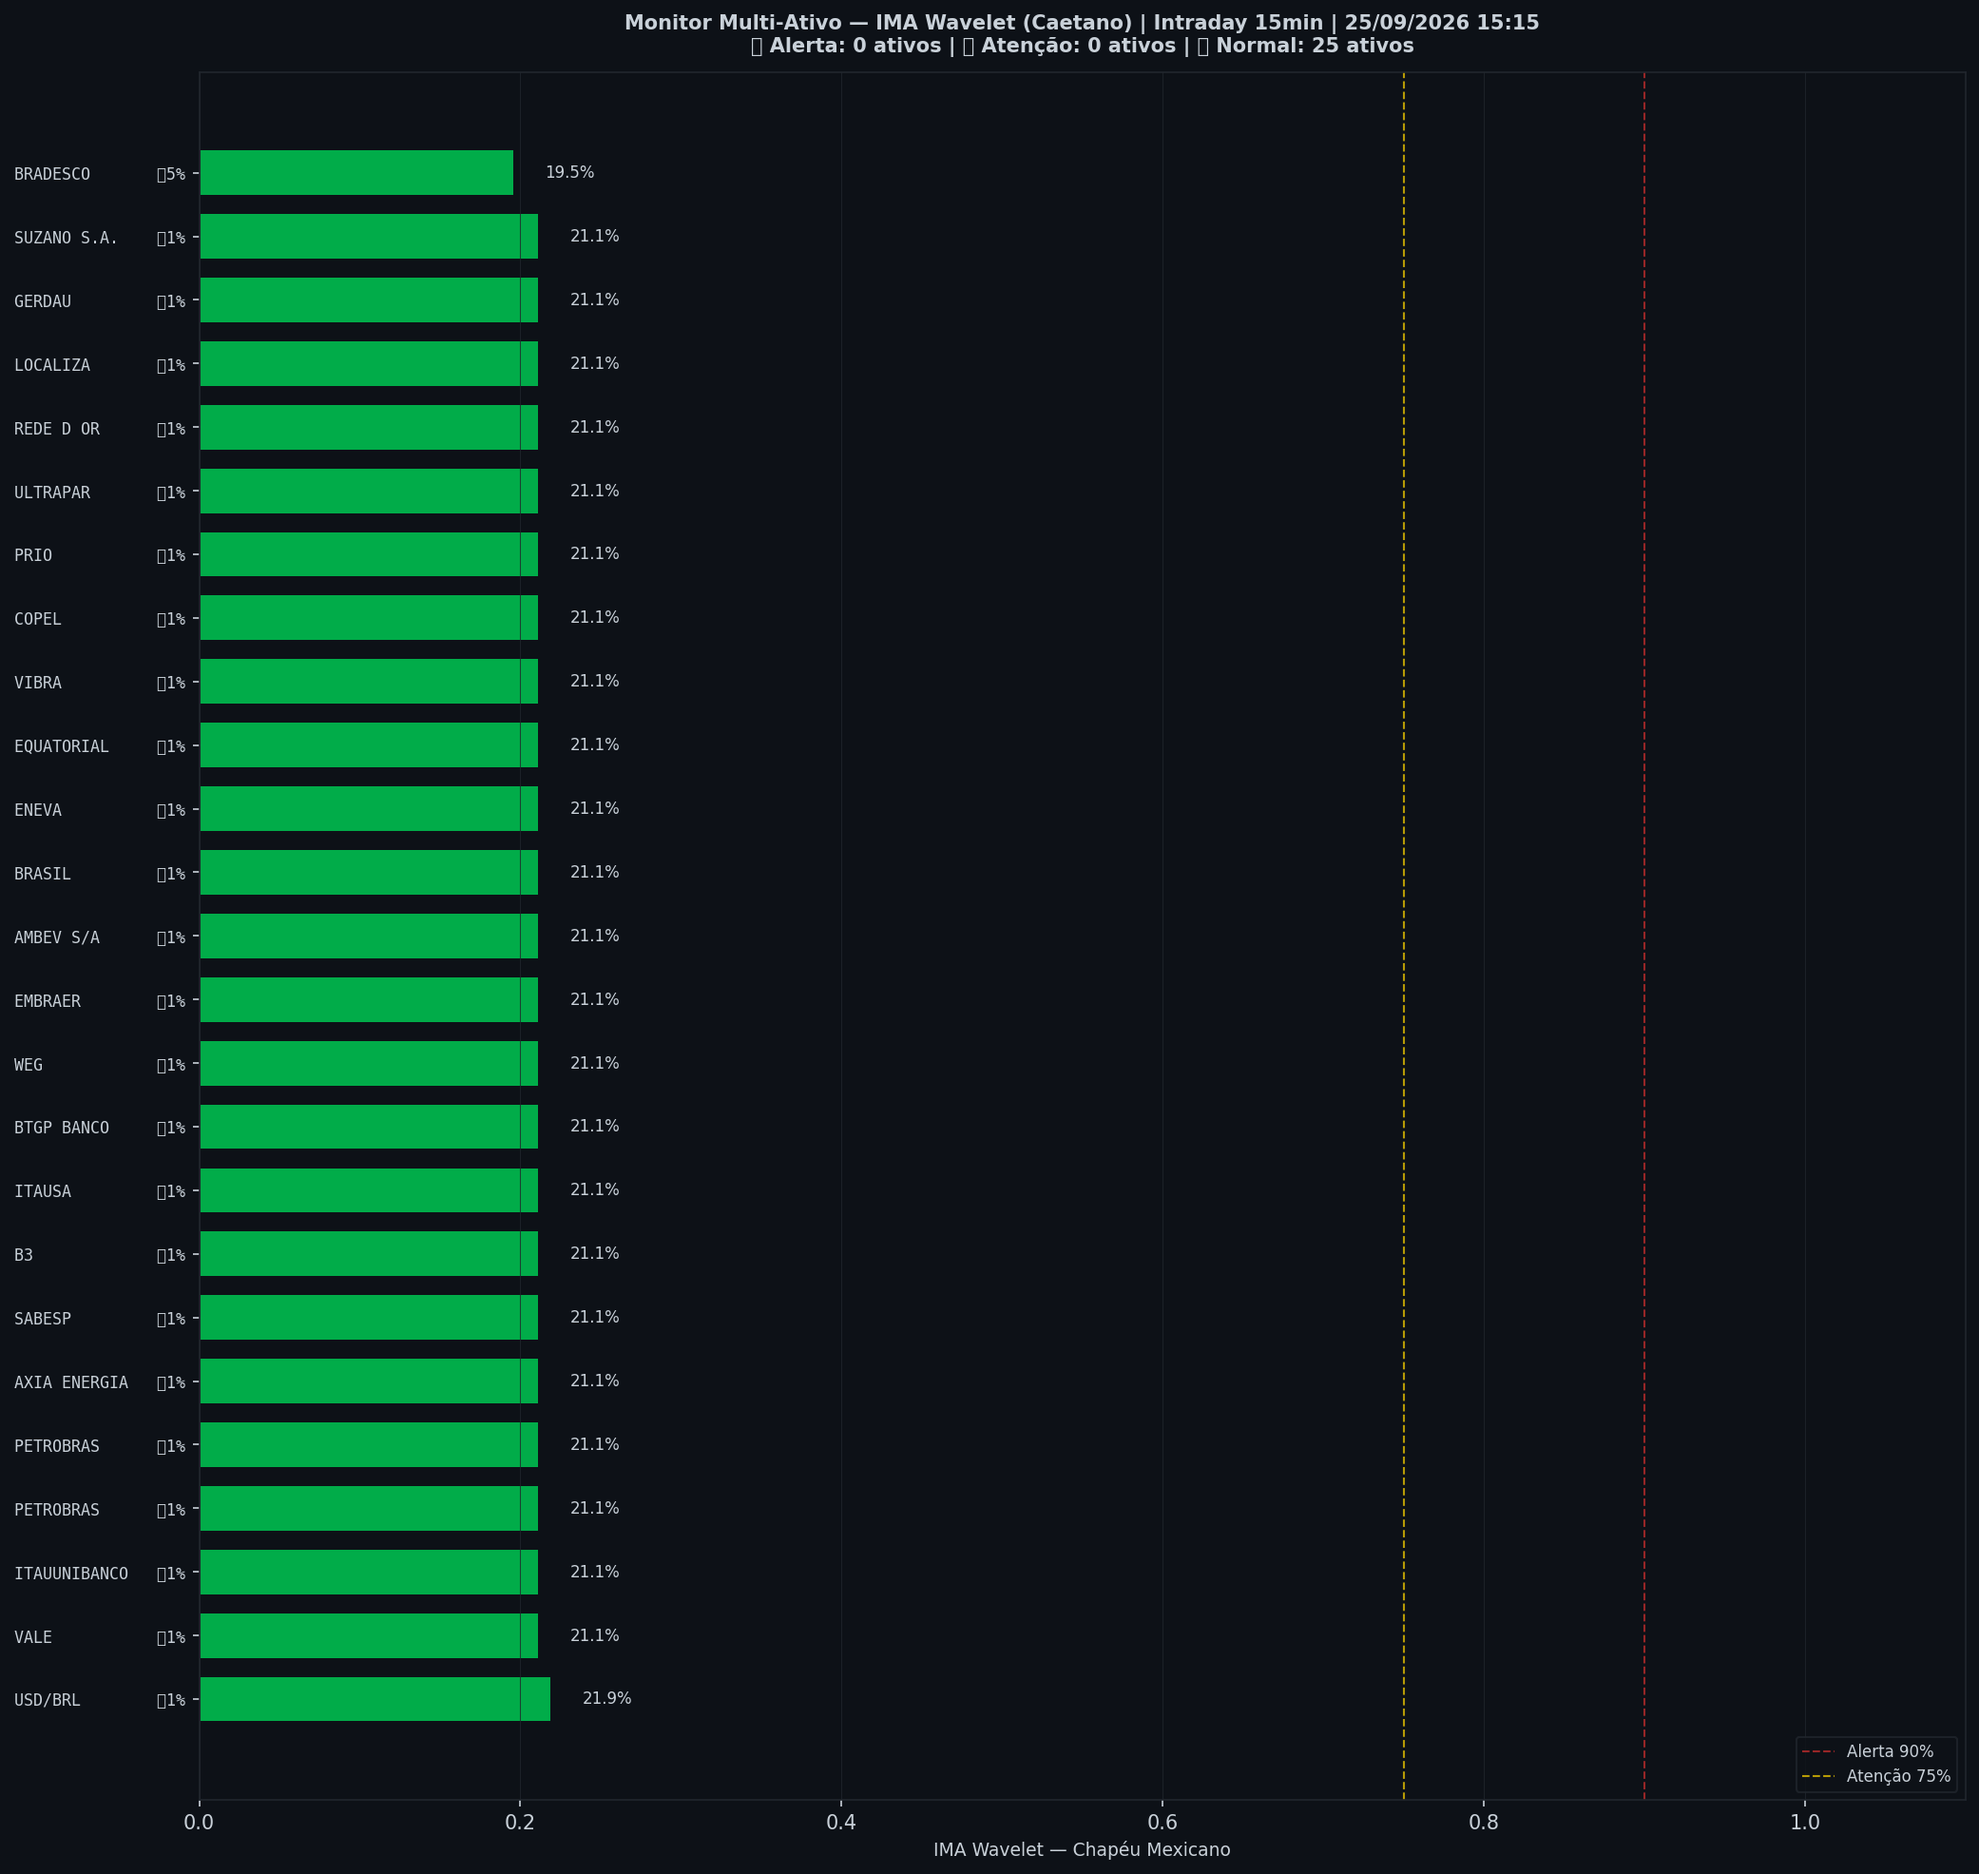
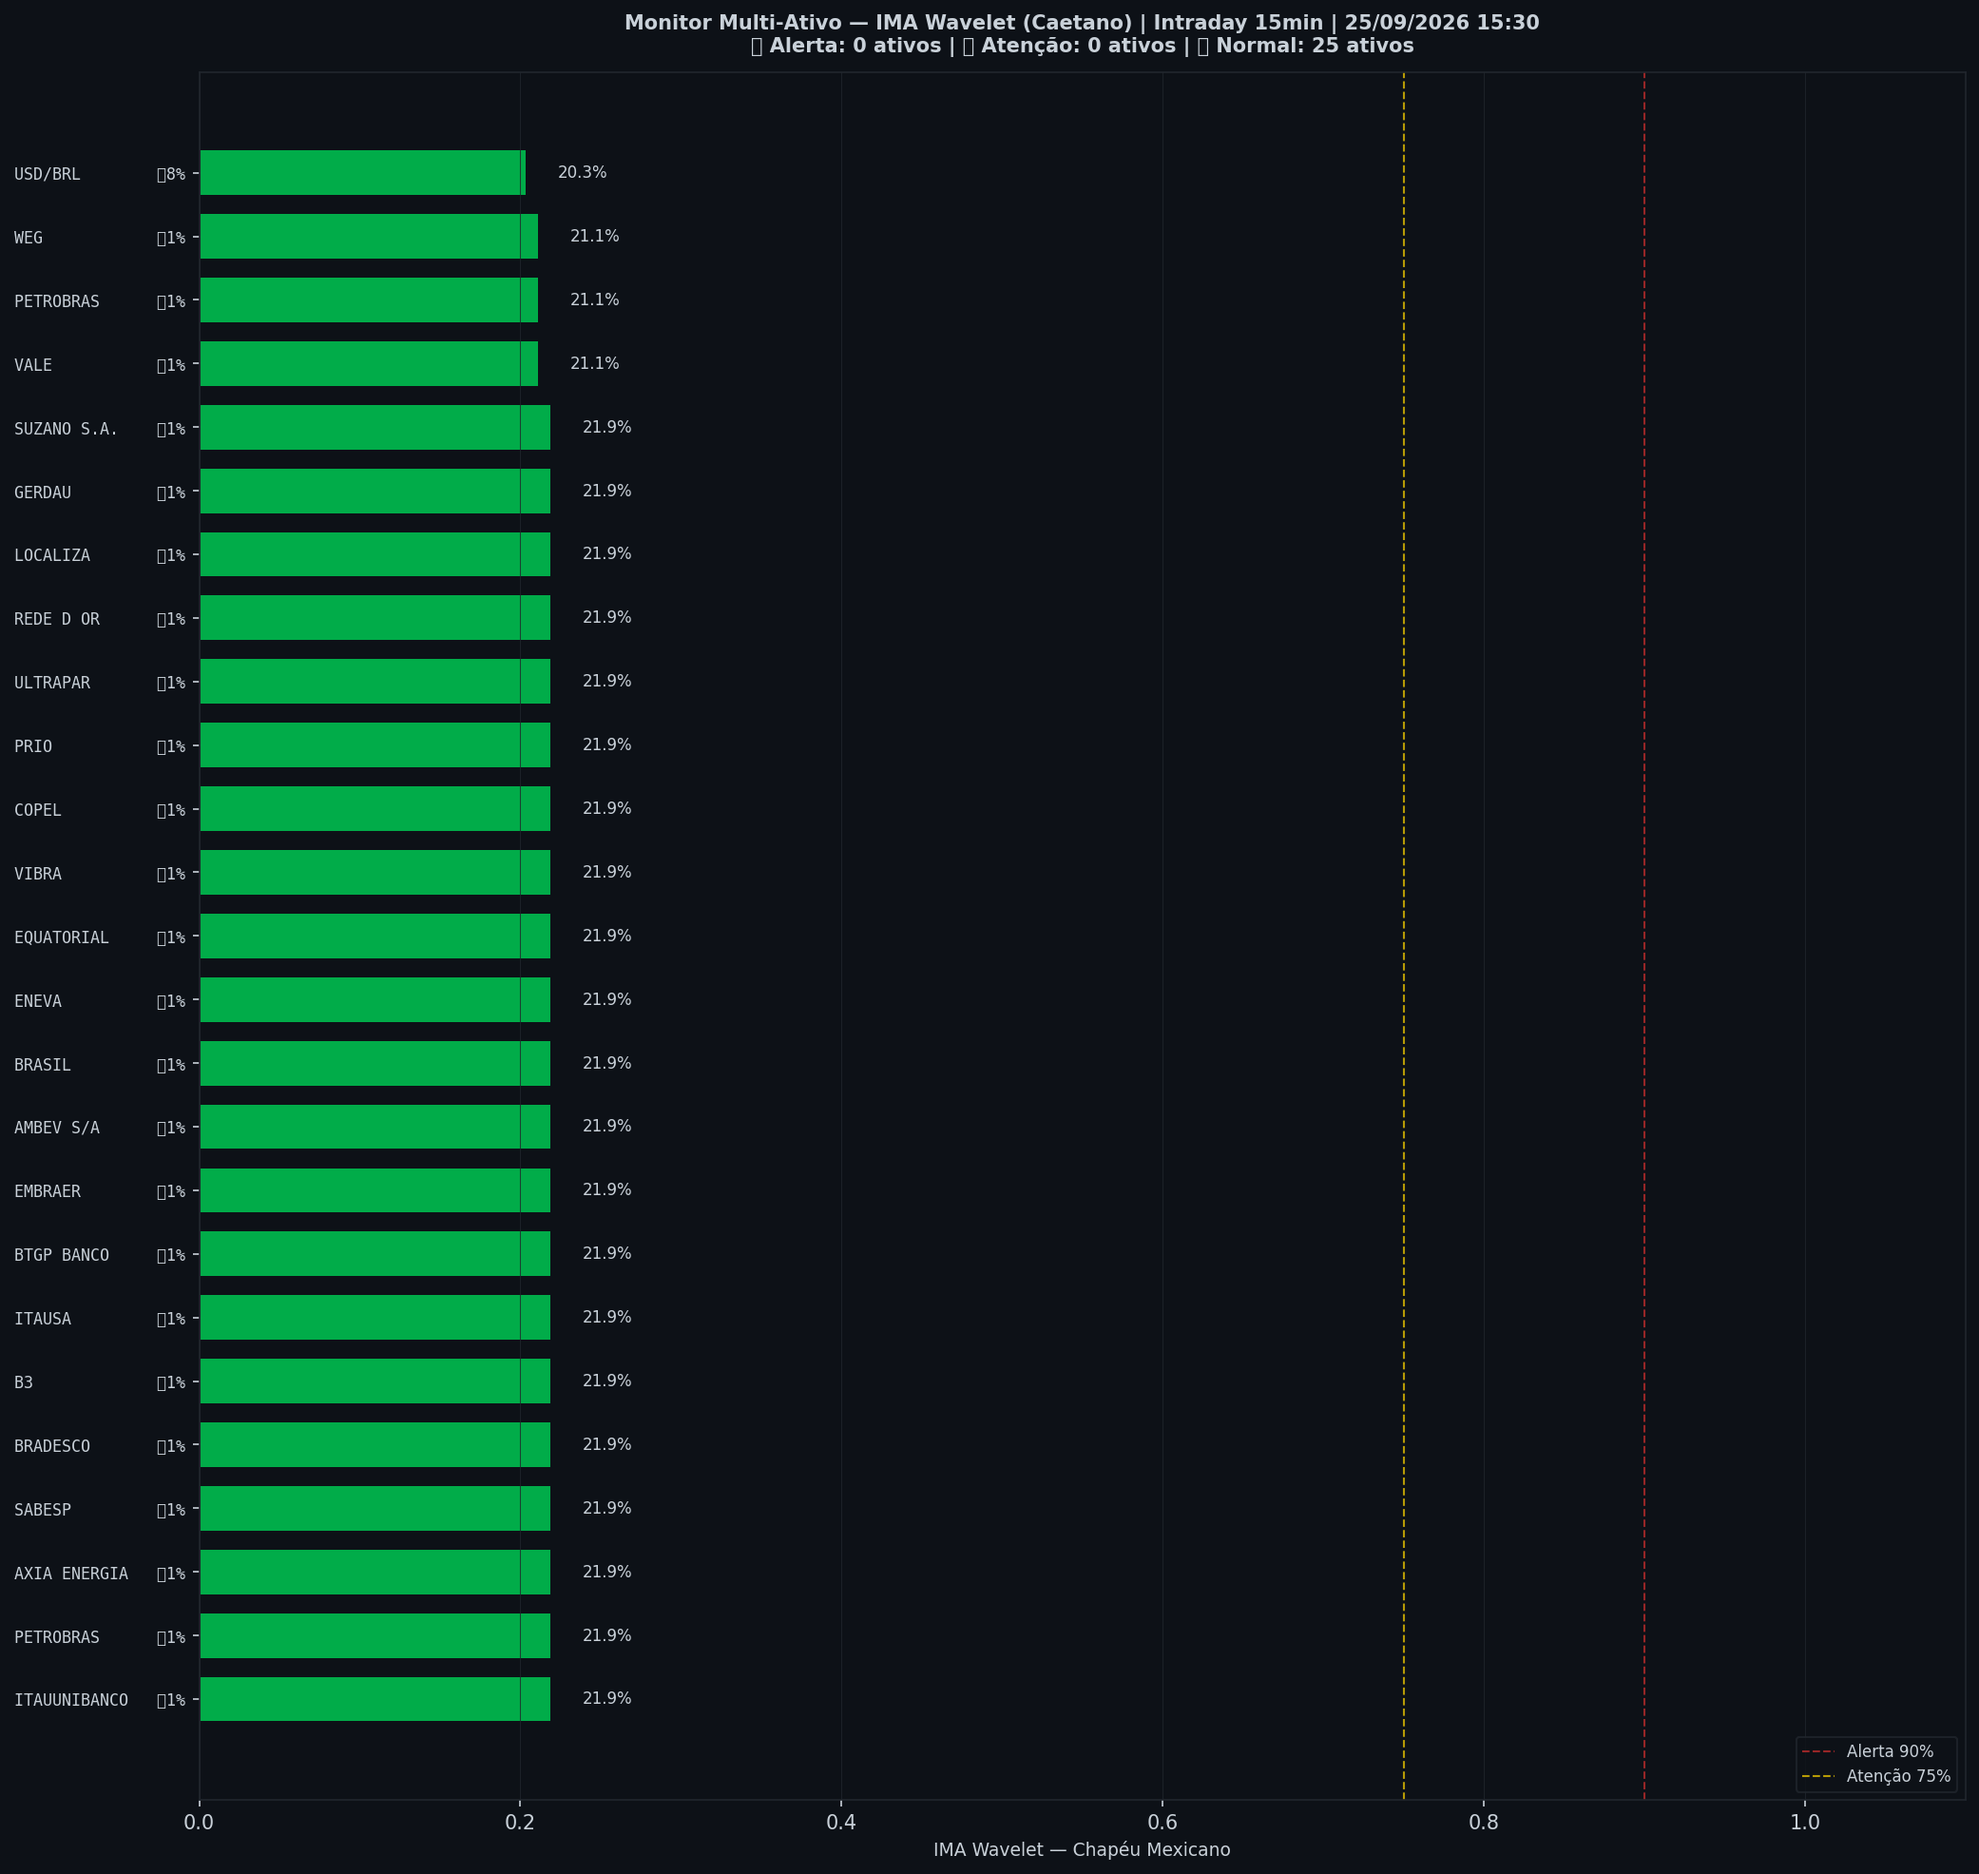
🤖 Auto: Sinal 25/09/2026 15:31

diff --git a/content/intraday/2026-09-25.md b/content/intraday/2026-09-25.md
@@ -1,10 +1,10 @@
 ---
-title: "🟢 Intraday 25/09/2026 14:30 BRT — VERDE"
+title: "🟢 Intraday 25/09/2026 14:45 BRT — VERDE"
 date: 2026-09-25
 tags: [intraday]
 ---
 
-> [!success] 🟢 **VERDE** — Risco 0% · ▼ -1 p.p. vs leitura anterior
+> [!success] 🟢 **VERDE** — Risco 0% · ＝ +0 p.p. vs leitura anterior
 > `░░░░░░░░░░░░░░░░░░░░`
 > Mercado sem sinais relevantes de estresse.
 
@@ -12,9 +12,9 @@ tags: [intraday]
 | Indicador | Valor |
 |---|---|
 | 🔴 ζ Crash — severidade da queda em curso | **0%** |
-| 🔵 ζ Entrada — estrutura de fundo | 68% |
+| 🔵 ζ Entrada — estrutura de fundo | 70% |
 | 🫧 LPPL DS-Confidence | 0% |
-| 📊 Ibovespa | 183.433 pts |
+| 📊 Ibovespa | 183.317 pts |
 
 ![Gráfico do sinal](../graficos/sinal_intraday.png)
 
@@ -22,6 +22,7 @@ tags: [intraday]
 
 | Data | Zona | Risco | IMA Crash | Entrada | LPPL |
 |---|---|---|---|---|---|
+| 2026-09-25 14:45 | 🟢 VERDE | **0%** | 0% | 70% | 0% |
 | 2026-09-25 14:30 | 🟢 VERDE | **0%** | 0% | 68% | 0% |
 | 2026-09-25 14:15 | 🟢 VERDE | **1%** | 1% | 68% | 0% |
 | 2026-09-25 14:00 | 🟢 VERDE | **1%** | 1% | 71% | 0% |
@@ -51,7 +52,6 @@ tags: [intraday]
 | 2026-09-24 15:00 | 🟢 VERDE | **0%** | 0% | 78% | 0% |
 | 2026-09-24 14:45 | 🟢 VERDE | **0%** | 0% | 94% | 0% |
 | 2026-09-24 14:30 | 🟢 VERDE | **2%** | 2% | 91% | 0% |
-| 2026-09-24 14:15 | 🟢 VERDE | **2%** | 2% | 90% | 0% |
 
 ## Monitor Multi-Ativo
 
@@ -59,35 +59,35 @@ tags: [intraday]
 
 | Zona | Ativo | Setor | IMA Crash | IMA Entrada |
 |---|---|---|---|---|
-| 🟢 | **USD/BRL** | Câmbio | 21.9% | 0.8% |
+| 🟢 | **ITAUUNIBANCO** | Financeiro | 21.9% | 0.8% |
+| 🟢 | **PETROBRAS** | Petróleo | 21.9% | 0.8% |
+| 🟢 | **AXIA ENERGIA** | Energia | 21.9% | 0.8% |
+| 🟢 | **SABESP** | Saneamento | 21.9% | 0.8% |
+| 🟢 | **BRADESCO** | Financeiro | 21.9% | 0.8% |
+| 🟢 | **B3** | Financeiro | 21.9% | 0.8% |
+| 🟢 | **ITAUSA** | Financeiro | 21.9% | 0.8% |
+| 🟢 | **BTGP BANCO** | Financeiro | 21.9% | 0.8% |
+| 🟢 | **EMBRAER** | Outros | 21.9% | 0.8% |
+| 🟢 | **AMBEV S/A** | Consumo | 21.9% | 0.8% |
+| 🟢 | **BRASIL** | Financeiro | 21.9% | 0.8% |
+| 🟢 | **ENEVA** | Energia | 21.9% | 0.8% |
+| 🟢 | **EQUATORIAL** | Energia | 21.9% | 0.8% |
+| 🟢 | **VIBRA** | Energia | 21.9% | 0.8% |
+| 🟢 | **COPEL** | Energia | 21.9% | 0.8% |
+| 🟢 | **PRIO** | Petróleo | 21.9% | 0.8% |
+| 🟢 | **ULTRAPAR** | Outros | 21.9% | 0.8% |
+| 🟢 | **REDE D OR** | Saúde | 21.9% | 0.8% |
+| 🟢 | **LOCALIZA** | Aluguel | 21.9% | 0.8% |
+| 🟢 | **GERDAU** | Siderurgia | 21.9% | 0.8% |
+| 🟢 | **SUZANO S.A.** | Papel/Celulose | 21.9% | 0.8% |
 | 🟢 | **VALE** | Mineração | 21.1% | 0.8% |
-| 🟢 | **ITAUUNIBANCO** | Financeiro | 21.1% | 0.8% |
 | 🟢 | **PETROBRAS** | Petróleo | 21.1% | 0.8% |
-| 🟢 | **PETROBRAS** | Petróleo | 21.1% | 0.8% |
-| 🟢 | **AXIA ENERGIA** | Energia | 21.1% | 0.8% |
-| 🟢 | **SABESP** | Saneamento | 21.1% | 0.8% |
-| 🟢 | **B3** | Financeiro | 21.1% | 0.8% |
-| 🟢 | **ITAUSA** | Financeiro | 21.1% | 0.8% |
-| 🟢 | **BTGP BANCO** | Financeiro | 21.1% | 0.8% |
 | 🟢 | **WEG** | Industrial | 21.1% | 0.8% |
-| 🟢 | **EMBRAER** | Outros | 21.1% | 0.8% |
-| 🟢 | **AMBEV S/A** | Consumo | 21.1% | 0.8% |
-| 🟢 | **BRASIL** | Financeiro | 21.1% | 0.8% |
-| 🟢 | **ENEVA** | Energia | 21.1% | 0.8% |
-| 🟢 | **EQUATORIAL** | Energia | 21.1% | 0.8% |
-| 🟢 | **VIBRA** | Energia | 21.1% | 0.8% |
-| 🟢 | **COPEL** | Energia | 21.1% | 0.8% |
-| 🟢 | **PRIO** | Petróleo | 21.1% | 0.8% |
-| 🟢 | **ULTRAPAR** | Outros | 21.1% | 0.8% |
-| 🟢 | **REDE D OR** | Saúde | 21.1% | 0.8% |
-| 🟢 | **LOCALIZA** | Aluguel | 21.1% | 0.8% |
-| 🟢 | **GERDAU** | Siderurgia | 21.1% | 0.8% |
-| 🟢 | **SUZANO S.A.** | Papel/Celulose | 21.1% | 0.8% |
-| 🟢 | **BRADESCO** | Financeiro | 19.5% | 4.7% |
+| 🟢 | **USD/BRL** | Câmbio | 20.3% | 7.8% |
 
 ![Monitor multi-ativo](../graficos/multi_intraday.png)
 
-*Página atualizada em 25/09/2026 15:16 BRT (leitura da barra de 2026-09-25 14:30 BRT).*
+*Página atualizada em 25/09/2026 15:31 BRT (leitura da barra de 2026-09-25 14:45 BRT).*
 
 > [!info]- Como interpretar (clique para expandir)
 > - **ζ Crash**: fração dos coeficientes wavelet acima do corte (Caetano & Yoneyama 2009). Escala absoluta: ζ=0,90 = 90% dos coeficientes anômalos — historicamente, quedas com ζ≥0,90 foram mais fundas e mais longas. **Mede a severidade do movimento em curso, não prevê o início da queda.**

diff --git a/content/index.md b/content/index.md
@@ -8,9 +8,9 @@ tags: [home]
 
 Monitoramento diário e intraday do Ibovespa — **IMA Wavelet** (Prof. Marco Antonio Leonel Caetano, ITA/INSPER) + **LPPL DS-Confidence** (Prof. Didier Sornette, ETH-Zurich).
 
-*Última atualização: 25/09/2026 15:16 BRT · ^BVSP · Intraday 15min · v4*
+*Última atualização: 25/09/2026 15:31 BRT · ^BVSP · Intraday 15min · v4*
 
-> [!success] 🟢 **VERDE** — Risco 0% · ▼ -1 p.p. vs leitura anterior
+> [!success] 🟢 **VERDE** — Risco 0% · ＝ +0 p.p. vs leitura anterior
 > `░░░░░░░░░░░░░░░░░░░░`
 > Mercado sem sinais relevantes de estresse.
 
@@ -18,9 +18,9 @@ Monitoramento diário e intraday do Ibovespa — **IMA Wavelet** (Prof. Marco An
 | Indicador | Valor |
 |---|---|
 | 🔴 ζ Crash — severidade da queda em curso | **0%** |
-| 🔵 ζ Entrada — estrutura de fundo | 68% |
+| 🔵 ζ Entrada — estrutura de fundo | 70% |
 | 🫧 LPPL DS-Confidence | 0% |
-| 📊 Ibovespa | 183.433 pts |
+| 📊 Ibovespa | 183.317 pts |
 
 **Multi-ativo:** 0% em tensão (0🔴 0🟡 de 25 ativos)
 

diff --git a/content/historico.md b/content/historico.md
@@ -7,6 +7,7 @@ tags: [historico]
 
 | Data | Modo | Zona | Risco | IMA | LPPL |
 |---|---|---|---|---|---|
+| 2026-09-25 14:45 | intraday | 🟢 VERDE | 0% | 0% | 0% |
 | 2026-09-25 14:30 | intraday | 🟢 VERDE | 0% | 0% | 0% |
 | 2026-09-25 14:15 | intraday | 🟢 VERDE | 1% | 1% | 0% |
 | 2026-09-25 14:00 | intraday | 🟢 VERDE | 1% | 1% | 0% |
